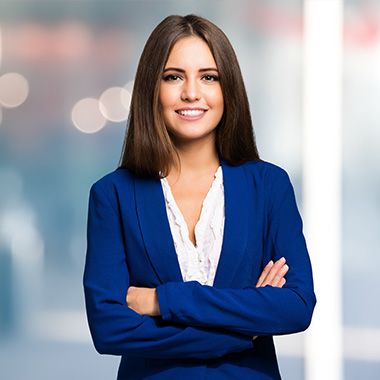
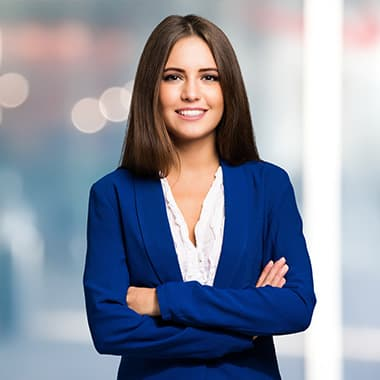
Добавляет WebP

diff --git a/source/index.html b/source/index.html
@@ -35,7 +35,10 @@
       <header class="page__header page-header page-header--nojs">
         <a class="page-header__logo" href="index.html">
           <picture>
-            <source media="(min-width: 1400px)" srcset="./img/logo-desktop-white@1x.png 1x, ./img/logo-desktop-white@2x.png 2x">
+            <source type="image/webp" media="(min-width: 1440px)" srcset="./img/logo-desktop-white@1x.webp 1x, ./img/logo-desktop-white@2x.webp 2x">
+            <source type="image/webp" media="(min-width: 768px)" srcset="./img/logo-tablet-white@1x.webp 1x, ./img/logo-tablet-white@2x.webp 2x">
+            <source type="image/webp" srcset="./img/logo-mobile-white@1x.webp 1x, ./img/logo-mobile-white@2x.webp 2x">
+            <source media="(min-width: 1440px)" srcset="./img/logo-desktop-white@1x.png 1x, ./img/logo-desktop-white@2x.png 2x">
             <source media="(min-width: 768px)" srcset="./img/logo-tablet-white@1x.png 1x, ./img/logo-tablet-white@2x.png 2x">
             <img class="page-header__logo-image" src="./img/logo-mobile-white@1x.png" srcset="./img/logo-mobile-white@2x.png 2x" alt="Погнали?">
           </picture>
@@ -214,6 +217,8 @@
               <div class="country-card">
                 <div class="country-card__pic">
                   <picture>
+                    <source type="image/webp" media="(min-width: 768px)" srcset="./img/thailand-desktop@1x.webp 1x, ./img/thailand-desktop@2x.webp 2x">
+                    <source type="image/webp" srcset="./img/thailand-mobile@1x.webp 1x, ./img/thailand-mobile@2x.webp 2x">
                     <source media="(min-width: 768px)" srcset="./img/thailand-desktop@1x.jpg 1x, ./img/thailand-desktop@2x.jpg 2x">
                     <img class="country-card__img country-card__img--thailand" src="./img/thailand-mobile@1x.jpg" srcset="./img/thailand-mobile@2x.jpg 2x" alt="Таиланд">
                   </picture>
@@ -230,6 +235,8 @@
               <div class="country-card">
                 <div class="country-card__pic">
                   <picture>
+                    <source type="image/webp" media="(min-width: 768px)" srcset="./img/france-desktop@1x.webp 1x, ./img/france-desktop@2x.webp 2x">
+                    <source type="image/webp" srcset="./img/france-mobile@1x.webp 1x, ./img/france-mobile@2x.webp 2x">
                     <source media="(min-width: 768px)" srcset="./img/france-desktop@1x.jpg 1x, ./img/france-desktop@2x.jpg 2x">
                     <img class="country-card__img country-card__img--france" src="./img/france-mobile@1x.jpg" srcset="./img/france-mobile@2x.jpg 2x" alt="Франция">
                   </picture>
@@ -246,6 +253,8 @@
               <div class="country-card">
                 <div class="country-card__pic">
                   <picture>
+                    <source type="image/webp" media="(min-width: 768px)" srcset="./img/czech-desktop@1x.webp 1x, ./img/czech-desktop@2x.webp 2x">
+                    <source type="image/webp" srcset="./img/czech-mobile@1x.webp 1x, ./img/czech-mobile@2x.webp 2x">
                     <source media="(min-width: 768px)" srcset="./img/czech-desktop@1x.jpg 1x, ./img/czech-desktop@2x.jpg 2x">
                     <img class="country-card__img country-card__img--czech" src="./img/czech-mobile@1x.jpg" srcset="./img/czech-mobile@2x.jpg 2x" alt="Чехия">
                   </picture>
@@ -285,7 +294,10 @@
             </div>
             <div class="users__list">
               <div class="user-card">
-                <img class="user-card__pic" src="./img/firsova-desktop@1x.jpg" srcset="./img/firsova-desktop@2x.jpg 2x" alt="Таня Фирсова">
+                <picture>
+                  <source type="image/webp" srcset="./img/firsova-desktop@1x.webp 1x, ./img/firsova-desktop@2x.webp 2x">
+                  <img class="user-card__pic" src="./img/firsova-desktop@1x.jpg" srcset="./img/firsova-desktop@2x.jpg 2x" alt="Таня Фирсова">
+                </picture>
                 <div class="user-card__level user-profile__level user-profile__level--99">
                   <span class="user-profile__level-number">99</span>
                   <span class="user-profile__level-text">level</span>
@@ -351,7 +363,10 @@
                 </div>
               </div>
               <div class="user-card">
-                <img class="user-card__pic" src="./img/demin-desktop@1x.jpg" srcset="./img/demin-desktop@2x.jpg 2x" alt="Петя Демин">
+                <picture>
+                  <source type="image/webp" srcset="./img/demin-desktop@1x.webp 1x, ./img/demin-desktop@2x.webp 2x">
+                  <img class="user-card__pic" src="./img/demin-desktop@1x.jpg" srcset="./img/demin-desktop@2x.jpg 2x" alt="Петя Демин">
+                </picture>
                 <div class="user-card__level user-profile__level user-profile__level--80">
                   <span class="user-profile__level-number">80</span>
                   <span class="user-profile__level-text">level</span>
@@ -458,8 +473,8 @@
               <input class="field__input" type="email" id="subscribe-email" name="subscribe-email" placeholder="E-mail" required>
               <button class="field__button button button--submit" type="submit">
                 <span class="field__button-name">Регистрация</span>
-                <svg width="12" height="13" viewBox="0 0 12 14" fill="none" xmlns="http://www.w3.org/2000/svg">
-                  <path d="M12 7L0 13.0622L0 0.937822L12 7Z" fill="#1D2E5B"/>
+                <svg width="11" height="20">
+                  <use xlink:href="#right"></use>
                 </svg>
               </button>
             </div>
@@ -510,13 +525,16 @@
         </section>
         <section class="map">
           <h2 class="visually-hidden">Карта</h2>
-          <iframe class="map__pic" src="https://yandex.ru/map-widget/v1/-/CCQxa4BlgB" allowfullscreen></iframe>
+          <iframe class="map__pic" src="https://www.google.com/maps/embed?pb=!1m18!1m12!1m3!1d1998.6037872533277!2d30.320858716096975!3d59.93871648187614!2m3!1f0!2f0!3f0!3m2!1i1024!2i768!4f13.1!3m3!1m2!1s0x4696310fca145cc1%3A0x42b32648d8238007!2z0JHQvtC70YzRiNCw0Y8g0JrQvtC90Y7RiNC10L3QvdCw0Y8g0YPQuy4sIDE5LzgsINCh0LDQvdC60YIt0J_QtdGC0LXRgNCx0YPRgNCzLCAxOTExODY!5e0!3m2!1sru!2sru!4v1600074188993!5m2!1sru!2sru" allowfullscreen></iframe>
         </section>
       </main>
       <footer class="page__footer page-footer">
         <a class="page-footer__logo">
           <picture>
-            <source media="(min-width: 1400px)" srcset="./img/logo-desktop-blue@1x.png 1x, ./img/logo-desktop-blue@2x.png 2x">
+            <source type="image/webp" media="(min-width: 1440px)" srcset="./img/logo-desktop-blue@1x.webp 1x, ./img/logo-desktop-blue@2x.webp 2x">
+            <source type="image/webp" media="(min-width: 768px)" srcset="./img/logo-tablet-blue@1x.webp 1x, ./img/logo-tablet-blue@2x.webp 2x">
+            <source type="image/webp" srcset="./img/logo-mobile-blue@1x.webp 1x, ./img/logo-mobile-blue@2x.webp 2x">
+            <source media="(min-width: 1440px)" srcset="./img/logo-desktop-blue@1x.png 1x, ./img/logo-desktop-blue@2x.png 2x">
             <source media="(min-width: 768px)" srcset="./img/logo-tablet-blue@1x.png 1x, ./img/logo-tablet-blue@2x.png 2x">
             <img class="page-header__logo-image" src="./img/logo-mobile-blue@1x.png" srcset="./img/logo-mobile-blue@2x.png 2x" alt="Погнали?">
           </picture>

diff --git a/source/catalog.html b/source/catalog.html
@@ -34,7 +34,10 @@
     <header class="page__header page-header page-header--catalog page-header--nojs">
       <a class="page-header__logo" href="index.html">
         <picture>
-          <source media="(min-width: 1400px)" srcset="./img/logo-desktop-white@1x.png 1x, ./img/logo-desktop-white@2x.png 2x">
+          <source type="image/webp" media="(min-width: 1440px)" srcset="./img/logo-desktop-white@1x.webp 1x, ./img/logo-desktop-white@2x.webp 2x">
+          <source type="image/webp" media="(min-width: 768px)" srcset="./img/logo-tablet-white@1x.webp 1x, ./img/logo-tablet-white@2x.webp 2x">
+          <source type="image/webp" srcset="./img/logo-mobile-white@1x.webp 1x, ./img/logo-mobile-white@2x.webp 2x">
+          <source media="(min-width: 1440px)" srcset="./img/logo-desktop-white@1x.png 1x, ./img/logo-desktop-white@2x.png 2x">
           <source media="(min-width: 768px)" srcset="./img/logo-tablet-white@1x.png 1x, ./img/logo-tablet-white@2x.png 2x">
           <img class="page-header__logo-image" src="./img/logo-mobile-white@1x.png" srcset="./img/logo-mobile-white@2x.png 2x" alt="Погнали?">
         </picture>
@@ -451,7 +454,7 @@
                 <div class="filter-form__item filter-section">
                   <h3 class="filter-section__name">Хобби</h3>
                   <button class="filter-section__button filter-section__button--close" type="button"></button>
-                  <ul class="filter-section__list filter-section__list--blocked ">
+                  <ul class="filter-section__list">
                     <li class="filter-section__list-item">
                       <input class="filter-section__list-item-checkbox visually-hidden" id="gym" name="gym" type="checkbox" value="gym" checked>
                       <label for="gym">Спортзал</label>
@@ -487,7 +490,7 @@
                 <div class="filter-form__item filter-section">
                   <h3 class="filter-section__name">Еда</h3>
                   <button class="filter-section__button filter-section__button--close" type="button"></button>
-                  <ul class="filter-section__list filter-section__list--blocked">
+                  <ul class="filter-section__list">
                     <li class="filter-section__list-item">
                       <input class="filter-section__list-item-checkbox visually-hidden" id="meat-eater" name="meat-eater" type="checkbox" value="meat-eater" checked>
                       <label for="meat-eater">Мясоед</label>
@@ -567,6 +570,8 @@
             <div class="user-card user-card--catalog">
               <a class="user-card__link" href="#">
                 <picture>
+                  <source type="image/webp" media="(min-width: 768px)" srcset="./img/firsova-desktop@1x.webp 1x, ./img/firsova-desktop@2x.webp 2x">
+                  <source type="image/webp" srcset="./img/firsova-mobile@1x.webp 1x, ./img/firsova-mobile@2x.webp 2x">
                   <source media="(min-width: 768px)" srcset="./img/firsova-desktop@1x.jpg 1x, ./img/firsova-desktop@2x.jpg 2x">
                   <img class="user-card__pic user-card__pic--catalog" src="./img/firsova-mobile@1x.jpg" srcset="./img/firsova-mobile@2x.jpg 2x" alt="Таня Фирсова">
                 </picture>
@@ -642,6 +647,8 @@
             <div class="user-card user-card--catalog">
               <a class="user-card__link" href="#">
                 <picture>
+                  <source type="image/webp" media="(min-width: 768px)" srcset="./img/demin-desktop@1x.webp 1x, ./img/demin-desktop@2x.webp 2x">
+                  <source type="image/webp" srcset="./img/demin-mobile@1x.webp 1x, ./img/demin-mobile@2x.webp 2x">
                   <source media="(min-width: 768px)" srcset="./img/demin-desktop@1x.jpg 1x, ./img/demin-desktop@2x.jpg 2x">
                   <img class="user-card__pic user-card__pic--catalog" src="./img/demin-mobile@1x.jpg" srcset="./img/demin-mobile@2x.jpg 2x" alt="Петя Демин">
                 </picture>
@@ -711,6 +718,8 @@
             <div class="user-card user-card--catalog">
               <a class="user-card__link" href="">
                 <picture>
+                  <source type="image/webp" media="(min-width: 768px)" srcset="./img/smolov-desktop@1x.webp 1x, ./img/smolov-desktop@2x.webp 2x">
+                  <source type="image/webp" srcset="./img/smolov-mobile@1x.webp 1x, ./img/smolov-mobile@2x.webp 2x">
                   <source media="(min-width: 768px)" srcset="./img/smolov-desktop@1x.jpg 1x, ./img/smolov-desktop@2x.jpg 2x">
                   <img class="user-card__pic user-card__pic--catalog" src="./img/smolov-mobile@1x.jpg" srcset="./img/smolov-mobile@2x.jpg 2x" alt="Марк Смолов">
                 </picture>
@@ -786,6 +795,8 @@
             <div class="user-card user-card--catalog">
               <a class="user-card__link" href="#">
                 <picture>
+                  <source type="image/webp" media="(min-width: 768px)" srcset="./img/rogovaya-desktop@1x.webp 1x, ./img/rogovaya-desktop@2x.webp 2x">
+                  <source type="image/webp" srcset="./img/rogovaya-mobile@1x.webp 1x, ./img/rogovaya-mobile@2x.webp 2x">
                   <source media="(min-width: 768px)" srcset="./img/rogovaya-desktop@1x.jpg 1x, ./img/rogovaya-desktop@2x.jpg 2x">
                   <img class="user-card__pic user-card__pic--catalog" src="./img/rogovaya-mobile@1x.jpg" srcset="./img/rogovaya-mobile@2x.jpg 2x" alt="Лариса Роговая">
                 </picture>
@@ -890,7 +901,10 @@
     <footer class="page__footer page__footer--catalog page-footer">
       <a class="page-footer__logo">
         <picture>
-          <source media="(min-width: 1400px)" srcset="./img/logo-desktop-blue@1x.png 1x, ./img/logo-desktop-blue@2x.png 2x">
+          <source type="image/webp" media="(min-width: 1440px)" srcset="./img/logo-desktop-blue@1x.webp 1x, ./img/logo-desktop-blue@2x.webp 2x">
+          <source type="image/webp" media="(min-width: 768px)" srcset="./img/logo-tablet-blue@1x.webp 1x, ./img/logo-tablet-blue@2x.webp 2x">
+          <source type="image/webp" srcset="./img/logo-mobile-blue@1x.webp 1x, ./img/logo-mobile-blue@2x.webp 2x">
+          <source media="(min-width: 1440px)" srcset="./img/logo-desktop-blue@1x.png 1x, ./img/logo-desktop-blue@2x.png 2x">
           <source media="(min-width: 768px)" srcset="./img/logo-tablet-blue@1x.png 1x, ./img/logo-tablet-blue@2x.png 2x">
           <img class="page-header__logo-image" src="./img/logo-mobile-blue@1x.png" srcset="./img/logo-mobile-blue@2x.png 2x" alt="Погнали?">
         </picture>

diff --git a/source/form.html b/source/form.html
@@ -34,7 +34,10 @@
     <header class="page__header page-header page-header--catalog page-header--nojs">
       <a class="page-header__logo" href="index.html">
         <picture>
-          <source media="(min-width: 1400px)" srcset="./img/logo-desktop-white@1x.png 1x, ./img/logo-desktop-white@2x.png 2x">
+          <source type="image/webp" media="(min-width: 1440px)" srcset="./img/logo-desktop-white@1x.webp 1x, ./img/logo-desktop-white@2x.webp 2x">
+          <source type="image/webp" media="(min-width: 768px)" srcset="./img/logo-tablet-white@1x.webp 1x, ./img/logo-tablet-white@2x.webp 2x">
+          <source type="image/webp" srcset="./img/logo-mobile-white@1x.webp 1x, ./img/logo-mobile-white@2x.webp 2x">
+          <source media="(min-width: 1440px)" srcset="./img/logo-desktop-white@1x.png 1x, ./img/logo-desktop-white@2x.png 2x">
           <source media="(min-width: 768px)" srcset="./img/logo-tablet-white@1x.png 1x, ./img/logo-tablet-white@2x.png 2x">
           <img class="page-header__logo-image" src="./img/logo-mobile-white@1x.png" srcset="./img/logo-mobile-white@2x.png 2x" alt="Погнали?">
         </picture>
@@ -126,7 +129,12 @@
           </div>
         </div>
         <label class="profile__pic-label" for="photo">
-          <img class="profile__pic user-profile__pic" src="./img/demin-desktop@1x.jpg" srcset="./img/demin-desktop@2x.jpg 2x" width="100" height="100" alt="Петя Демин">
+          <picture>
+            <source type="image/webp" media="(min-width: 768px)" srcset="./img/photo-account-tablet@1x.webp 1x, ./img/photo-account-tablet@2x.webp 2x">
+            <source type="image/webp" srcset="./img/photo-account-mobile@1x.webp 1x, ./img/photo-account-mobile@2x.webp 2x">
+            <source media="(min-width: 768px)" srcset="./img/photo-account-tablet@1x.jpg 1x, ./img/photo-account-tablet@2x.jpg 2x">
+            <img class="profile__pic user-profile__pic" src="./img/photo-account-mobile@1x.jpg" srcset="./img/photo-account-mobile@2x.jpg 2x" width="100" height="100" alt="Петя Демин">
+          </picture>
         </label>
         <input id="photo" class="visually-hidden" type="file">
           <label for="photo" class="user-profile__button-1 profile__button user-profile__button">Сменить фото</label>
@@ -592,7 +600,10 @@
     <footer class="page__footer page__footer--form page-footer">
       <a class="page-footer__logo">
         <picture>
-          <source media="(min-width: 1400px)" srcset="./img/logo-desktop-blue@1x.png 1x, ./img/logo-desktop-blue@2x.png 2x">
+          <source type="image/webp" media="(min-width: 1440px)" srcset="./img/logo-desktop-blue@1x.webp 1x, ./img/logo-desktop-blue@2x.webp 2x">
+          <source type="image/webp" media="(min-width: 768px)" srcset="./img/logo-tablet-blue@1x.webp 1x, ./img/logo-tablet-blue@2x.webp 2x">
+          <source type="image/webp" srcset="./img/logo-mobile-blue@1x.webp 1x, ./img/logo-mobile-blue@2x.webp 2x">
+          <source media="(min-width: 1440px)" srcset="./img/logo-desktop-blue@1x.png 1x, ./img/logo-desktop-blue@2x.png 2x">
           <source media="(min-width: 768px)" srcset="./img/logo-tablet-blue@1x.png 1x, ./img/logo-tablet-blue@2x.png 2x">
           <img class="page-header__logo-image" src="./img/logo-mobile-blue@1x.png" srcset="./img/logo-mobile-blue@2x.png 2x" alt="Погнали?">
         </picture>

diff --git a/source/sass/blocks/field.scss b/source/sass/blocks/field.scss
@@ -40,9 +40,9 @@
 }
 
 .field__button {
-  padding: 21px 23px;
+  padding: 18px 23px;
   margin: 0;
-  margin-left: -58px;
+  margin-left: -57px;
 
   &:focus {
     outline: none;
@@ -50,16 +50,17 @@
 
   //Tablet
   @media (min-width: 768px) {
-    padding: 32px 35px;
-    margin-left: -82px;
+    padding: 28px 35px;
+    margin-left: -81px;
   }
 
   //Desktop
   @media (min-width: 1440px) {
     display: flex;
     align-items: baseline;
-    padding: 27px 35px;
-    margin-left: -326px;
+    padding: 26px 35px;
+    margin-left: -325px;
+    height: 80px;
   }
 }
 

diff --git a/source/sass/blocks/user-card.scss b/source/sass/blocks/user-card.scss
@@ -178,6 +178,7 @@
   border-radius: 12px 12px 0 0;
   margin-top: -1px;
   object-fit: cover;
+  width: 100%;
 
   //Tablet
   @media (min-width: 768px) {
